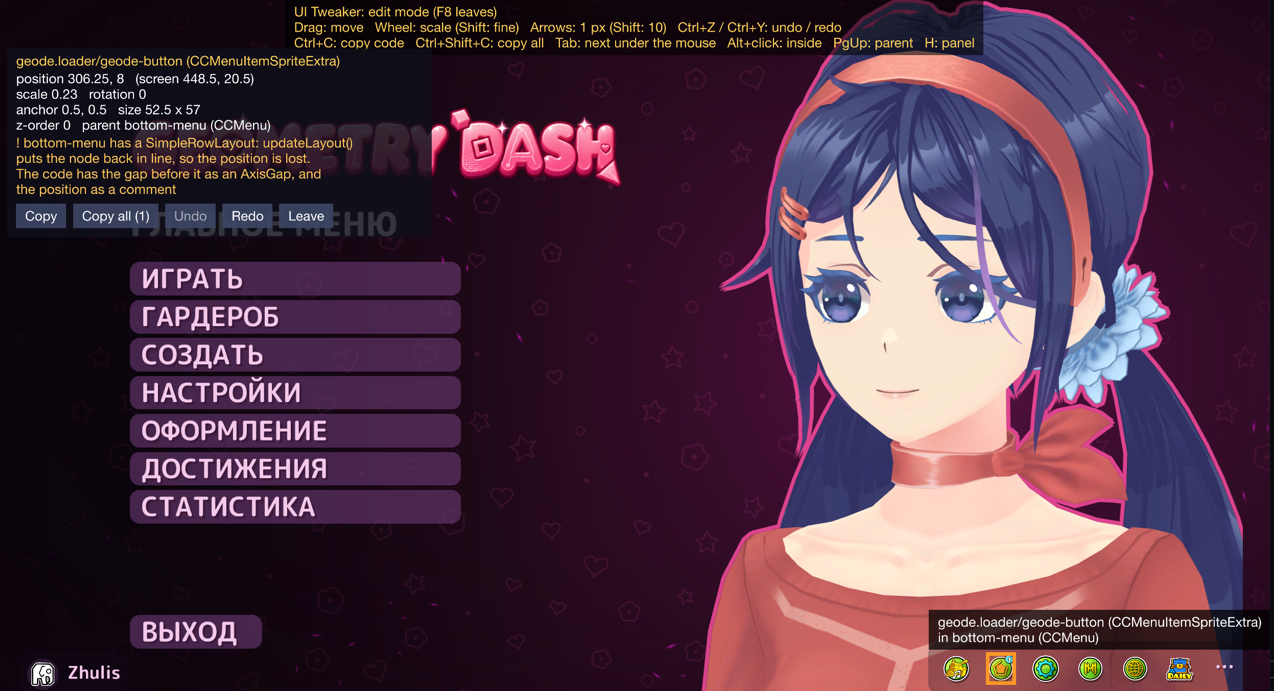
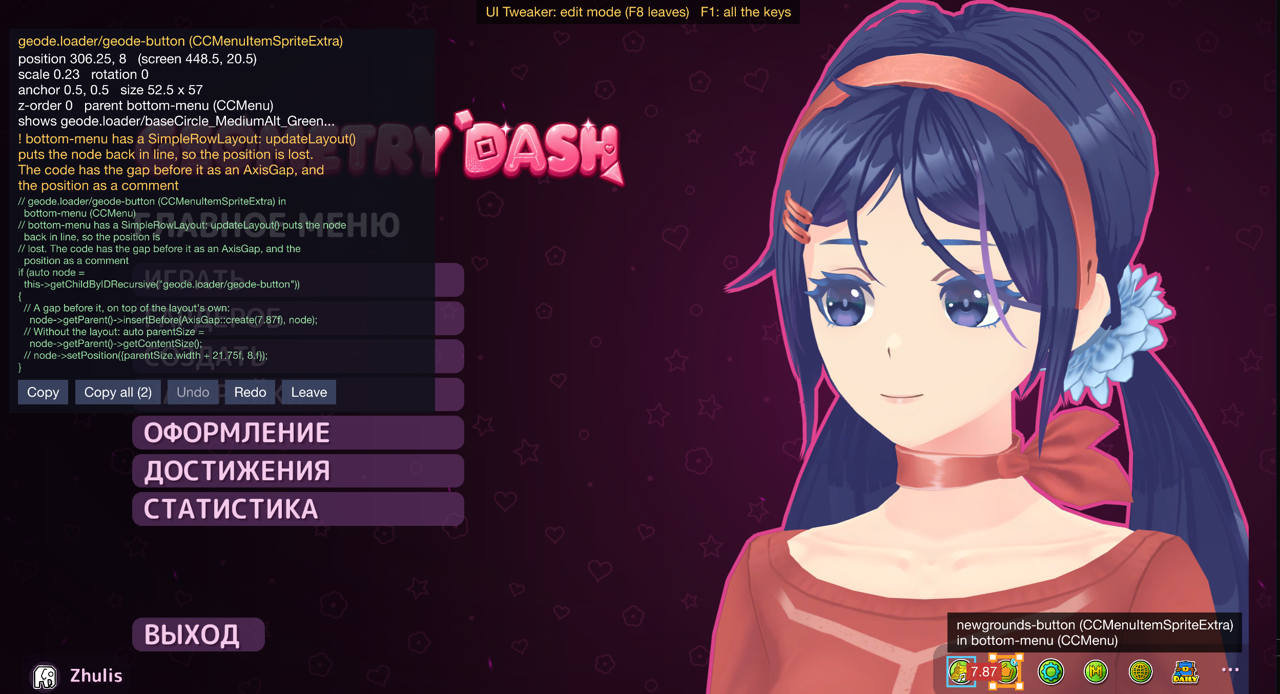
README: the GIF and the screenshots as the edit mode looks now
The GIF (made with real input by tools/gif.sh): the title selected, the panel
moving out of its way, a resize handle, a drag past the guides, the wheel, three
Ctrl+Z, the code view following. The screenshots have the one-line banner, what
the button shows, the code view.

Claude-Session: https://claude.ai/code/session_01V4QkgqzX58cdCxJB5Co6uf

diff --git a/README.md b/README.md
@@ -6,7 +6,7 @@ A [Geode](https://geode-sdk.org) mod for Geometry Dash, for mod developers: move
 
 <img src="logo.png" width="128" alt="logo">
 
-![Hover, drag, the wheel and Ctrl+Z on the main menu's title, with real mouse and keys](docs/demo.gif)
+![The main menu's title selected with real mouse and keys, the panel moving out of its way, resized by a handle, dragged past the guides, scaled, undone; the code view shows its code as it changes](docs/demo.gif)
 
 ![The edit mode in the main menu: the Geode button selected, its panel, the layout's warning](docs/edit-mode.png)
 
